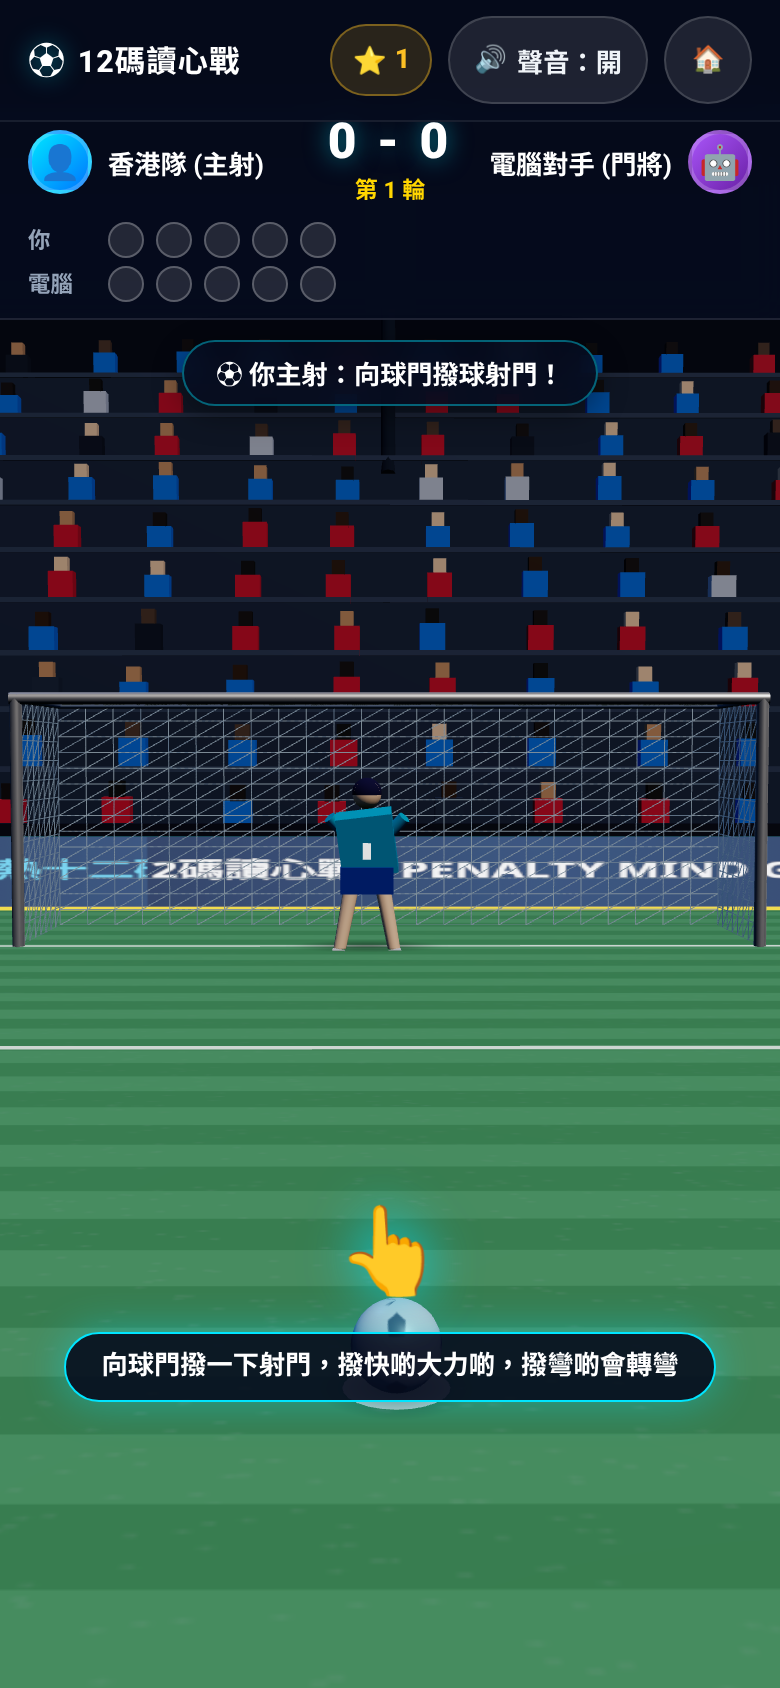
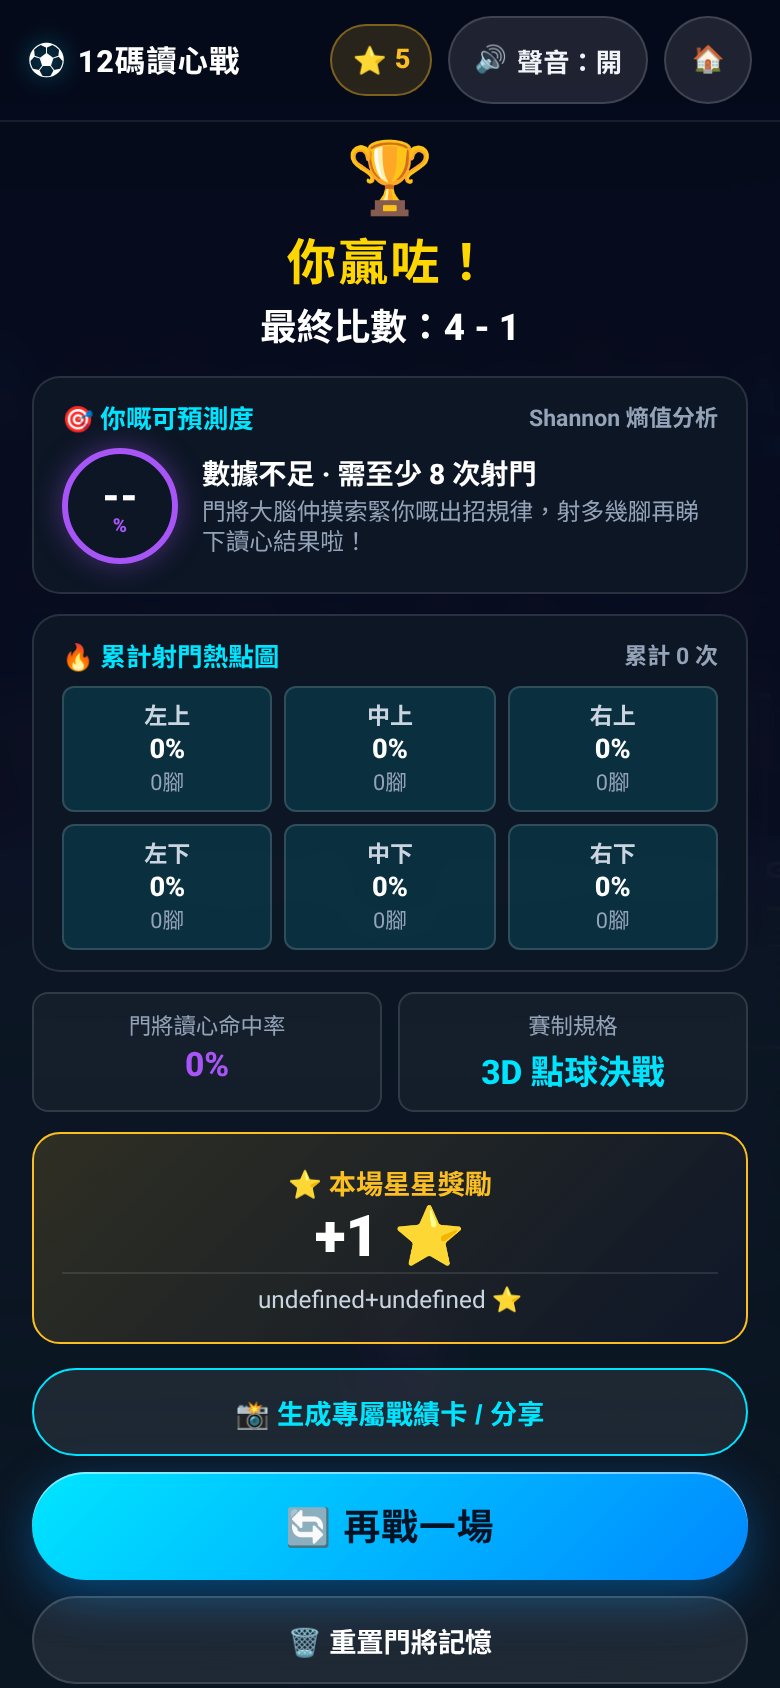
v2 round 3 WIP (agy)

diff --git a/src/main.js b/src/main.js
@@ -558,23 +558,23 @@ class GameApp {
     }
 
     // Determine kit colors
-    let pKit = { jersey: '#e53935', shorts: '#ffffff', socks: '#e53935', gloves: '#ff1744' };
-    let oppKit = { jersey: '#1e88e5', shorts: '#0d47a1', socks: '#1e88e5', gloves: '#00e5ff' };
+    let pKit = { primary: '#e53935', shorts: '#ffffff', socks: '#e53935', secondary: '#ff1744' };
+    let oppKit = { primary: '#1e88e5', shorts: '#0d47a1', socks: '#1e88e5', secondary: '#00e5ff' };
 
     if (this.matchMode === 'TOURNAMENT' && this.tournament.isActive()) {
       const pTeam = this.tournament.getPlayerTeam();
       const oppTeam = this.tournament.getOpponentTeam();
-      if (pTeam && pTeam.kitColors) pKit = pTeam.kitColors;
-      if (oppTeam && oppTeam.kitColors) oppKit = oppTeam.kitColors;
+      if (pTeam && pTeam.colors) pKit = pTeam.colors;
+      if (oppTeam && oppTeam.colors) oppKit = oppTeam.colors;
     } else {
       const kitItem = UNLOCK_CATALOG.kits.find(k => k.id === equipped.kit);
       if (kitItem && kitItem.colors) {
-        pKit = kitItem.colors;
+        pKit = { primary: kitItem.colors.jersey, shorts: kitItem.colors.shorts, socks: kitItem.colors.socks, secondary: kitItem.colors.gloves };
       }
     }
 
     if (this.stadium) {
-      this.stadium.updateCrowdTeamColors(pKit.jersey, oppKit.jersey);
+      this.stadium.updateCrowdTeamColors(pKit.primary, oppKit.primary);
     }
 
     // In player turn (player shooting): Keeper is opponent, Striker is player
@@ -606,13 +606,16 @@ class GameApp {
       const card = document.createElement('div');
       card.className = `team-pick-item ${team.id === this.selectedTeamForModal ? 'selected' : ''}`;
       card.dataset.teamId = team.id;
+      const keeperName = team.keeper ? team.keeper.name : '鋼門';
+      const takerName = team.taker ? team.taker.name : '射手';
+      const tag = team.code || team.id;
       card.innerHTML = `
         <div class="team-pick-flag">${team.flag}</div>
         <div class="team-pick-name">${team.name}</div>
-        <div class="team-pick-tag">${team.styleTag}</div>
+        <div class="team-pick-tag">${tag}</div>
         <div class="team-pick-intel">
-          <span>🧤 ${team.keeperPersonality.name}</span>
-          <span>⚽ ${team.takerPersonality.name}</span>
+          <span>🧤 ${keeperName}</span>
+          <span>⚽ ${takerName}</span>
         </div>
       `;
       card.addEventListener('click', () => {
@@ -666,13 +669,14 @@ class GameApp {
     if (oppTeam) {
       if (this.dom.tourneyOppFlag) this.dom.tourneyOppFlag.textContent = oppTeam.flag;
       if (this.dom.tourneyOppName) this.dom.tourneyOppName.textContent = oppTeam.name;
-      if (this.dom.tourneyOppKeeper) this.dom.tourneyOppKeeper.textContent = oppTeam.keeperPersonality.name;
-      if (this.dom.tourneyOppKeeperDesc) this.dom.tourneyOppKeeperDesc.textContent = oppTeam.keeperPersonality.desc;
-      if (this.dom.tourneyOppTaker) this.dom.tourneyOppTaker.textContent = oppTeam.takerPersonality.name;
-      if (this.dom.tourneyOppTakerDesc) this.dom.tourneyOppTakerDesc.textContent = oppTeam.takerPersonality.desc;
+      if (this.dom.tourneyOppKeeper) this.dom.tourneyOppKeeper.textContent = oppTeam.keeper ? oppTeam.keeper.name : '門將';
+      if (this.dom.tourneyOppKeeperDesc) this.dom.tourneyOppKeeperDesc.textContent = oppTeam.keeper ? oppTeam.keeper.desc : '';
+      if (this.dom.tourneyOppTaker) this.dom.tourneyOppTaker.textContent = oppTeam.taker ? oppTeam.taker.name : '射手';
+      if (this.dom.tourneyOppTakerDesc) this.dom.tourneyOppTakerDesc.textContent = oppTeam.taker ? oppTeam.taker.desc : '';
       if (this.dom.tourneyDifficultyBadge && currentMatch) {
+        const diff = this.tournament.getCurrentDifficulty();
         const diffLabels = { EASY: '簡單 (EASY)', MEDIUM: '標準 (MEDIUM)', HARD: '困難 (HARD)', HELL: '地獄 (HELL)' };
-        this.dom.tourneyDifficultyBadge.textContent = diffLabels[currentMatch.difficulty] || currentMatch.difficulty;
+        this.dom.tourneyDifficultyBadge.textContent = diffLabels[diff] || diff;
       }
     }
 
@@ -683,12 +687,13 @@ class GameApp {
       roundMatches.forEach((m) => {
         const item = document.createElement('div');
         const isPlayerMatch = (m.id === currentMatch?.id) || (m.teamA?.id === pTeam?.id || m.teamB?.id === pTeam?.id);
-        item.className = `bracket-match-row ${isPlayerMatch ? 'player-match' : ''} ${m.completed ? 'done' : ''}`;
+        const isDone = m.winner !== null;
+        item.className = `bracket-match-row ${isPlayerMatch ? 'player-match' : ''} ${isDone ? 'done' : ''}`;
 
-        const scoreA = m.completed ? m.scoreA : '-';
-        const scoreB = m.completed ? m.scoreB : '-';
-        const winA = m.completed && m.winnerId === m.teamA?.id;
-        const winB = m.completed && m.winnerId === m.teamB?.id;
+        const scoreA = isDone ? m.scoreA : '-';
+        const scoreB = isDone ? m.scoreB : '-';
+        const winA = isDone && m.winner?.id === m.teamA?.id;
+        const winB = isDone && m.winner?.id === m.teamB?.id;
 
         item.innerHTML = `
           <div class="bm-team ${winA ? 'winner' : ''}">
@@ -715,7 +720,7 @@ class GameApp {
       } else if (isElim) {
         this.dom.btnTourneyStartMatch.textContent = '❌ 已出局（點擊下方重置）';
         this.dom.btnTourneyStartMatch.disabled = true;
-      } else if (currentMatch && currentMatch.completed) {
+      } else if (currentMatch && currentMatch.winner !== null) {
         this.dom.btnTourneyStartMatch.textContent = `晉級下一輪 (${this.tournament.getNextRoundName()})`;
         this.dom.btnTourneyStartMatch.disabled = false;
         this.dom.btnTourneyStartMatch.onclick = () => {
@@ -1099,10 +1104,10 @@ class GameApp {
     let divePlan = decide(modelProbs, this.difficultyConfig, TUNING);
 
     // Opponent keeper personality in tournament
-    if (this.matchMode === 'TOURNAMENT' && this.activeOpponentTeam?.keeperPersonality) {
-      const kp = this.activeOpponentTeam.keeperPersonality;
-      if (typeof kp.reactionBonus === 'number') {
-        divePlan.reactTime = Math.max(0.04, divePlan.reactTime + kp.reactionBonus);
+    if (this.matchMode === 'TOURNAMENT' && this.activeOpponentTeam?.keeper) {
+      const kp = this.activeOpponentTeam.keeper;
+      if (typeof kp.reactBonus === 'number') {
+        divePlan.reactTime = Math.max(0.04, divePlan.reactTime + kp.reactBonus);
       }
       if (typeof kp.reachBonus === 'number') {
         divePlan.reachMultiplier = (divePlan.reachMultiplier || 1.0) * (1.0 + kp.reachBonus);
@@ -1426,13 +1431,10 @@ class GameApp {
     const takerDecision = this.takerAI.decideShot(this.difficultyConfig, earlyZone);
 
     // Striker personality modifiers in tournament
-    if (this.matchMode === 'TOURNAMENT' && this.activeOpponentTeam?.takerPersonality) {
-      const tp = this.activeOpponentTeam.takerPersonality;
-      if (typeof tp.speedMultiplier === 'number') {
-        takerDecision.speed *= tp.speedMultiplier;
-      }
-      if (typeof tp.curveMultiplier === 'number') {
-        takerDecision.curve *= tp.curveMultiplier;
+    if (this.matchMode === 'TOURNAMENT' && this.activeOpponentTeam?.taker) {
+      const tp = this.activeOpponentTeam.taker;
+      if (typeof tp.speedBonus === 'number') {
+        takerDecision.speed += tp.speedBonus;
       }
     }
 

diff --git a/tests/r3_e2e_test.js b/tests/r3_e2e_test.js
@@ -24,13 +24,16 @@ async function run() {
   const ws = new WebSocket(pageTarget.webSocketDebuggerUrl);
   let msgId = 1;
   const pending = new Map();
+  let isTracking = false;
   const pageErrors = [];
 
   ws.onmessage = (event) => {
     const data = JSON.parse(event.data);
     if (data.method === 'Runtime.exceptionThrown') {
-      console.error('Browser Exception:', data.params.exceptionDetails);
-      pageErrors.push(data.params.exceptionDetails);
+      if (isTracking) {
+        console.error('Browser Exception:', data.params.exceptionDetails);
+        pageErrors.push(data.params.exceptionDetails);
+      }
     }
     if (data.id && pending.has(data.id)) {
       const { resolve, reject } = pending.get(data.id);
@@ -70,7 +73,8 @@ async function run() {
   });
 
   // Reload page to start clean with cache bypass
-  pageErrors.length = 0; // Clear any stale errors before reload
+  isTracking = true;
+  pageErrors.length = 0;
   await send('Page.reload', { ignoreCache: true });
   await new Promise(r => setTimeout(r, 1500));
 
@@ -85,6 +89,7 @@ async function run() {
   // 2. Test Team Selection & Tournament Screen
   console.log('2. Testing Team Selection & Tournament Screen...');
   await evaluate(`
+    window.BTB_GAME.tournament.reset();
     document.getElementById('btn-start-tournament').click();
   `);
   await new Promise(r => setTimeout(r, 400));

diff --git a/src/unlocks.js b/src/unlocks.js
@@ -280,6 +280,29 @@ export class UnlocksManager {
     return !!this.trophies[trophyId];
   }
 
+  checkTrophies(conditions = {}) {
+    const awarded = [];
+    if (conditions.tournamentWon) {
+      if (this.awardTrophy('trophy_champ')) awarded.push('trophy_champ');
+    }
+    if (conditions.isFinalist) {
+      if (this.awardTrophy('trophy_runner_up')) awarded.push('trophy_runner_up');
+    }
+    if (conditions.isSemiFinalist) {
+      if (this.awardTrophy('trophy_third')) awarded.push('trophy_third');
+    }
+    if (typeof conditions.savesInMatch === 'number' && conditions.savesInMatch >= 3) {
+      if (this.awardTrophy('trophy_golden_glove')) awarded.push('trophy_golden_glove');
+    }
+    if (conditions.allScored) {
+      if (this.awardTrophy('trophy_dead_eye')) awarded.push('trophy_dead_eye');
+    }
+    if (conditions.lowPredictability) {
+      if (this.awardTrophy('trophy_mind_master')) awarded.push('trophy_mind_master');
+    }
+    return awarded;
+  }
+
   getTrophies() {
     return TROPHIES.map(t => ({
       ...t,
